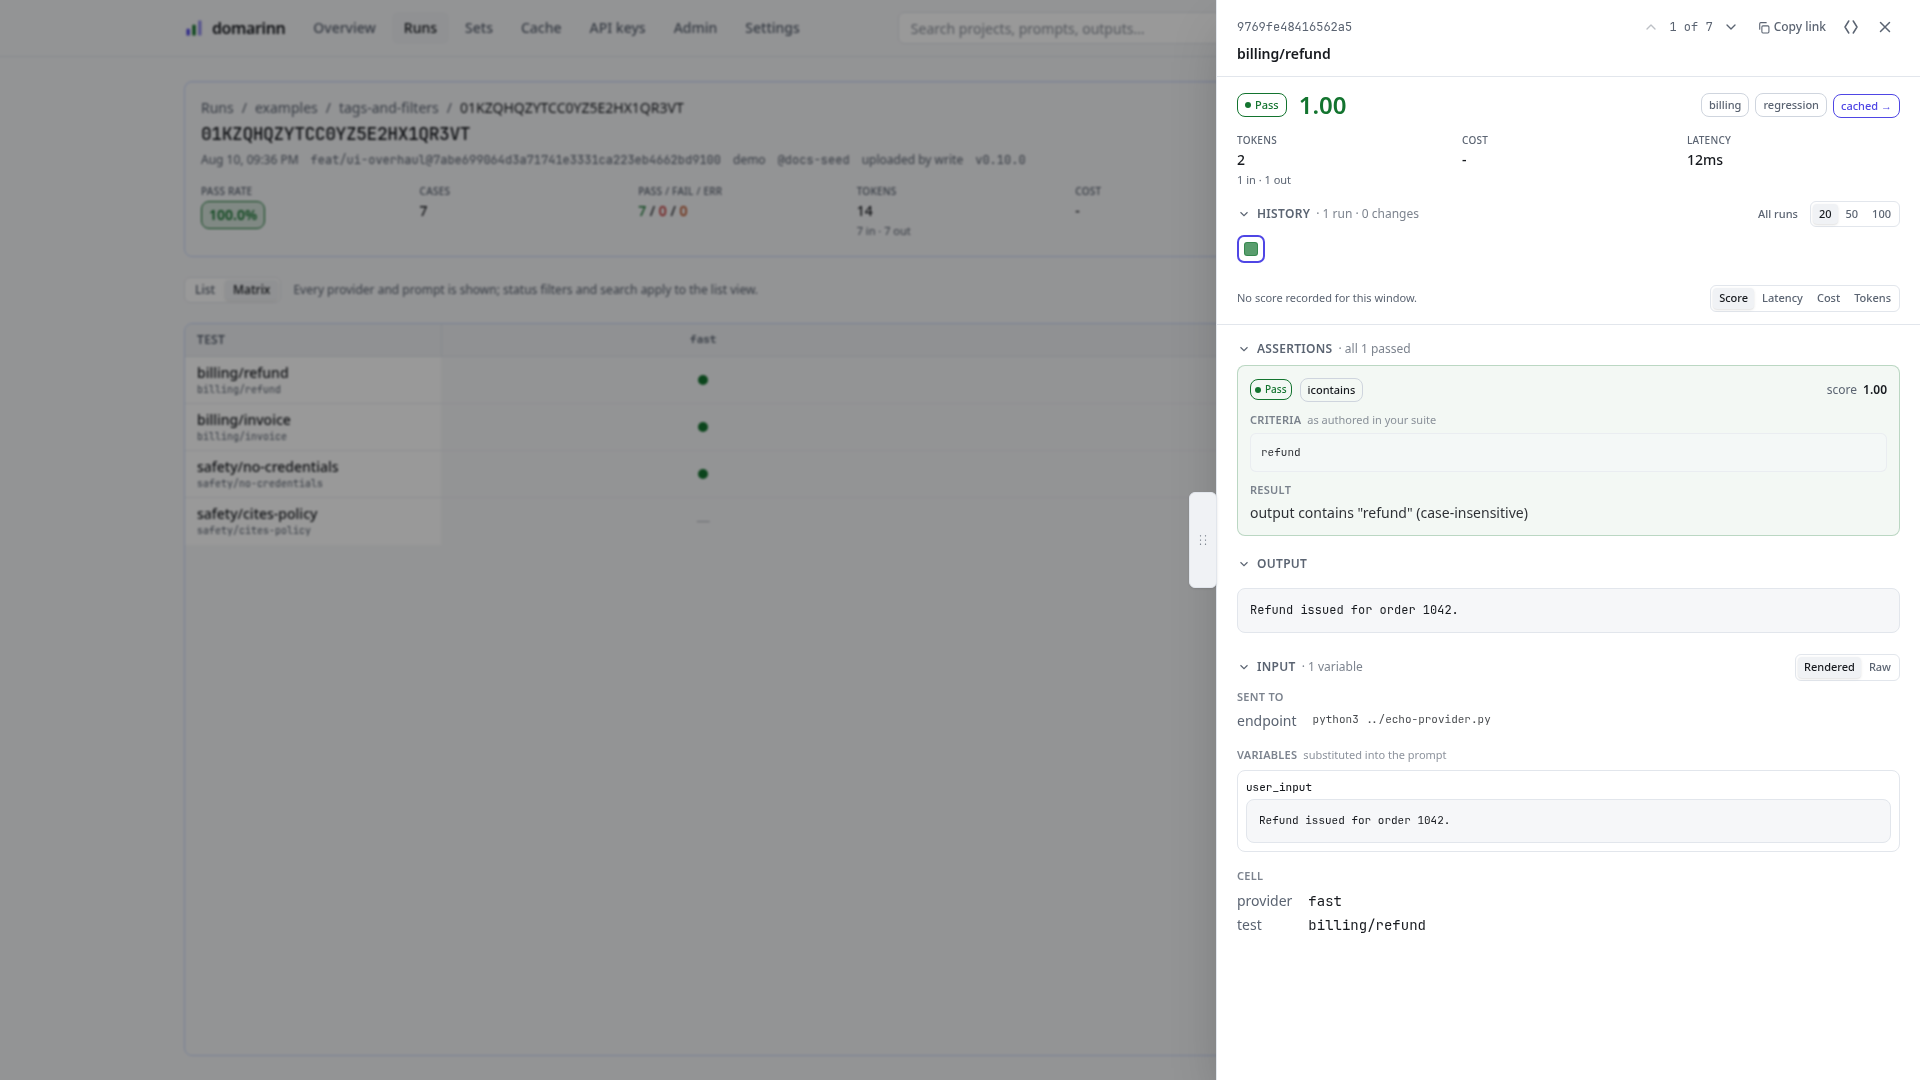
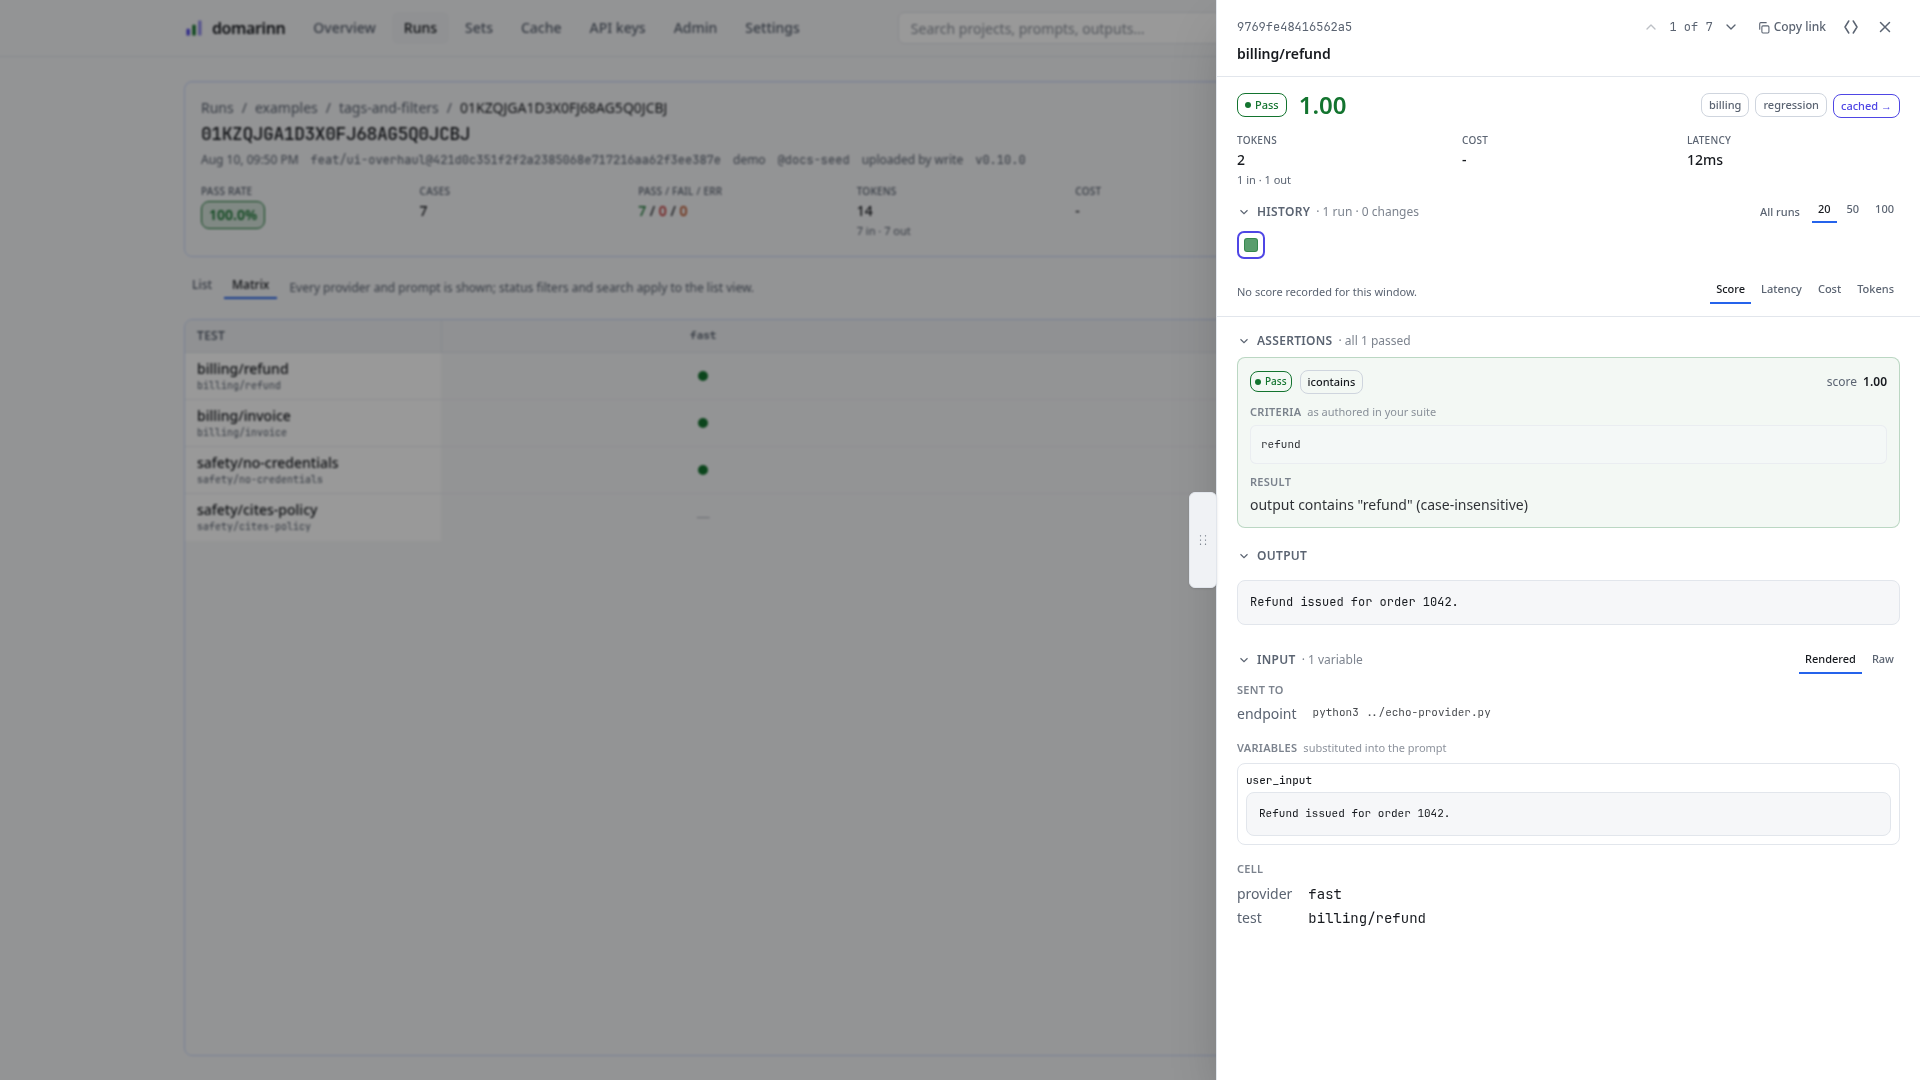
feat(web): give the view switchers an underline tab treatment
The segmented control was a joined pill group in a bordered, filled
strip — a lot of chrome for what is usually two or three words, and the
heaviest thing in most of the toolbars it sits in. Take the Atvik design
system's tab treatment instead: no group container at all, and the
selection carried by a rule under the active label.

All eleven consumers pick it up at once — origin and cached filters,
list/matrix, rendered/raw, diff modes, cache tier, history window and
score/latency/cost/tokens — because the look lives in the one component
they already share.

The rule is a transparent bottom border on every option rather than one
added to the selected option. Colouring an existing border keeps all the
labels on a common baseline; adding a border to the active one alone
shunts it down 2px as the selection moves.

Semantics are untouched. This stays a `radiogroup` with a roving tabindex
and arrow-key selection, which is what it correctly implements today —
it is a value picker, not navigation. Looking like a tab strip is not a
reason to start claiming `tablist` without the panels to match.

Sizes and padding are held apart from the room the rule needs, per the
same decision made for buttons.

diff --git a/web/src/components/ui/SegmentedControl.tsx b/web/src/components/ui/SegmentedControl.tsx
@@ -89,10 +89,12 @@ export function SegmentedControl<T extends string>({
       role="radiogroup"
       aria-label={ariaLabel}
       onKeyDown={onKeyDown}
-      className={cn(
-        "inline-flex items-center gap-0.5 rounded-md border border-border bg-surface p-0.5",
-        className,
-      )}
+      // An underline strip rather than a joined pill group, per the Atvik
+      // design system's tab treatment: no group chrome at all, and the
+      // selection carried by a rule under the active label. Deliberately not
+      // `w-full` like the source's own strip — these sit inline in toolbars
+      // beside chips and buttons, and stretching them would break every row.
+      className={cn("inline-flex items-center gap-1", className)}
     >
       {options.map((opt) => {
         const active = opt.value === value;
@@ -108,12 +110,17 @@ export function SegmentedControl<T extends string>({
             tabIndex={opt.value === tabbableValue ? 0 : -1}
             onClick={() => onChange(opt.value)}
             className={cn(
-              "rounded font-medium transition-colors focus-visible:outline-none focus-visible:ring-2 focus-visible:ring-ring",
-              size === "xs" ? "px-1.5 py-0.5 text-[11px]" : "px-2 py-0.5 text-xs",
+              // The rule is a transparent border on every option, not one added
+              // to the active one: colouring an existing border keeps all the
+              // labels on the same baseline, where adding a border to the
+              // selected option alone would shunt it 2px down as you switch.
+              "border-b-2 border-transparent font-medium transition-colors focus-visible:outline-none focus-visible:ring-2 focus-visible:ring-ring",
+              size === "xs" ? "px-1.5 pb-1 text-[11px]" : "px-2 pb-1 text-xs",
               active
-                ? "bg-surface-2 text-fg shadow-sm"
-                : "text-muted hover:text-fg",
-              opt.disabled && "cursor-not-allowed opacity-40 hover:text-muted",
+                ? "border-info text-fg"
+                : "text-muted hover:border-border-strong hover:text-fg",
+              opt.disabled &&
+                "cursor-not-allowed opacity-40 hover:border-transparent hover:text-muted",
             )}
           >
             {opt.label}
